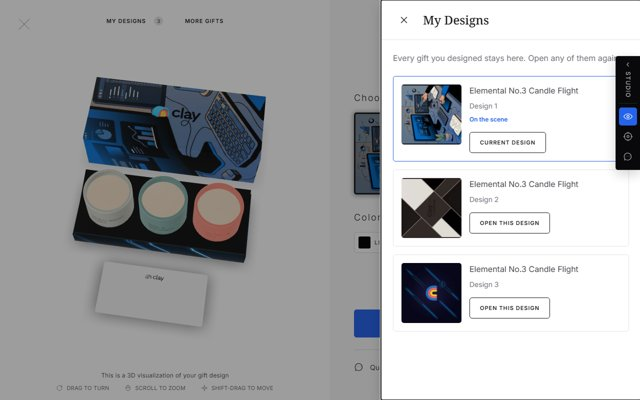
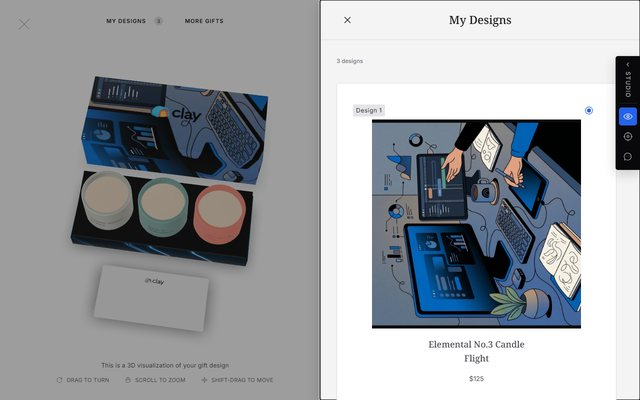
feat(lp227): iteration 7 of both sandboxes, floating plates and one chassis
Ton's seven points on the deployed sandboxes (V1.7 and V2.7, still the same two prototypes):
- the 3D line and the gesture row sit in one floating white plate at the foot of the model, as on Share Design; My Designs and More gifts float the same way on top;
- the generation animation stays as it was;
- Brand DNA is a level down: a back arrow and YOUR BRAND DNA at the top of the panel, BACK TO GIFT DESIGN is gone;
- My Designs is the Favorites drawer of the category page one to one, with a Radio in the heart's place and Design N in the badge's;
- More gifts has the category bar with its X, one to one with the portal's Browse Catalog;
- a swap between Lid and Tray creates one new design in My Designs;
- the colour tiles, the swap and EDIT MY BRAND DNA share one system outline chassis, kept on one row at 1280; the help is one service card.
icon.js gains the swap glyph. Live is untouched.

Built with Elian (session 43).

diff --git a/live/start-227-assets/sb.js b/live/start-227-assets/sb.js
@@ -4,7 +4,7 @@
    Local generation is ASSUMED: original Clay tiles rotate, no paid/live requests. */
 (function(){
 'use strict';
-var root=document.getElementById('cz-root'), db, pendingGift=null, choice='', quiet=false, drawer, helpDrawer, helpRoute='', ready;
+var root=document.getElementById('cz-root'), db, pendingGift=null, pendingSwap=null, choice='', quiet=false, drawer, helpDrawer, helpRoute='', ready;
 var KEY='gb-start227-sandbox-designs', A='start-227-assets/img/cz-', P='../sandbox/lp227-proto/img/';
 var firstGift={id:'candle-906',name:'Elemental No.3 Candle Flight',price:'$125',scene:A+'scene-design.jpg'};
 var gifts=[
@@ -32,9 +32,9 @@ function select(id){capture();if(!db.designs.some(function(d){return d.id===id;}
 function css(href){return new Promise(function(resolve,reject){var n=document.createElement('link');n.rel='stylesheet';n.href=href;n.onload=resolve;n.onerror=reject;document.head.appendChild(n);});}
 function script(src,attrs){return new Promise(function(resolve,reject){var n=document.createElement('script');n.src=src;Object.keys(attrs||{}).forEach(function(k){n.setAttribute(k,attrs[k]);});n.onload=resolve;n.onerror=reject;document.body.appendChild(n);});}
 // Existing system drawer and catalog overlay, loaded only after a sandbox is requested.
-ready=Promise.all([css('../system/components/button.css'),css('../system/components/drawer.css'),script('../system/components/drawer.js'),css('start-227-assets/sb-scene.css'),script('start-227-assets/sb-scene.js').then(function(){return GBSandboxScene.ready;}),css('../system/components/auth.css'),script('../system/components/auth.js'),css('../system/components/booking.css'),script('../system/components/booking.js'),script('catalog-overlay.js',{'data-open':'[data-sb-catalog-door]','data-src':'../sandbox/lp227-proto/index.html?land=diy&s=more&studio=embedded'})]).then(function(){
+ready=Promise.all([css('../system/components/button.css'),css('../system/components/radio.css'),css('../system/components/tooltip.css'),window.GbTip?Promise.resolve():script('../system/components/tooltip.js'),css('../system/components/drawer.css'),script('../system/components/drawer.js'),css('start-227-assets/sb-scene.css'),script('start-227-assets/sb-scene.js').then(function(){return GBSandboxScene.ready;}),css('../system/components/auth.css'),script('../system/components/auth.js'),css('../system/components/booking.css'),script('../system/components/booking.js'),script('catalog-overlay.js',{'data-open':'[data-sb-catalog-door]','data-src':'../sandbox/lp227-proto/index.html?land=diy&s=more&studio=embedded'})]).then(function(){
  drawer=document.createElement('gb-drawer');drawer.id='sb-my-designs';document.body.appendChild(drawer);
- drawer._panel.classList.add('sb-drawer-panel');drawer._scrim.classList.add('sb-drawer-scrim');
+ drawer._panel.classList.add('sb-drawer-panel','sb-favorites-panel');drawer._scrim.classList.add('sb-drawer-scrim');
  drawer.addEventListener('gbd:close',function(){if(!quiet&&active()&&GBFlow.state.dr==='designs')GBFlow.set({dr:''});});
  helpDrawer=document.createElement('gb-drawer');helpDrawer.id='sb-get-help';document.body.appendChild(helpDrawer);helpDrawer._panel.classList.add('sb-drawer-panel','sb-help-panel');helpDrawer._scrim.classList.add('sb-drawer-scrim');helpDrawer.addEventListener('gbd:close',function(){if(!quiet&&active()&&['help','meeting'].indexOf(GBFlow.state.dr)>=0)GBFlow.set({dr:''});});
  db.designs.forEach(function(d){d.artwork=d.gift.id===firstGift.id?'../assets/models/start227/art-'+d.tile+'-lid.webp':d.gift.scene;});save();
@@ -45,22 +45,31 @@ function choiceHTML(){return '<div class="cz-scroll sb-choice"><h2>How would you
 var expert={email:'',name:'',phone:'',message:''};
 function expertField(label,key,placeholder,type){return '<div class="sb-expert-field"><label for="sb-expert-'+key+'">'+label+' <span class="sb-required">*</span></label><input type="'+(type||'text')+'" id="sb-expert-'+key+'" data-sb-field="'+key+'" value="'+esc(expert[key])+'" placeholder="'+esc(placeholder)+'" required></div>';}
 function expertsHTML(){return '<div class="cz-scroll sb-experts"><div class="sb-expert-header"><button type="button" class="sb-text-door" data-sb-action="self">Back to your design</button></div><h2>Work with our experts to design this gift</h2><form id="sb-expert-form">'+expertField('EMAIL','email','me@mycompany.com','email')+expertField('YOUR NAME','name','Your Name')+'<div class="sb-expert-field"><label for="sb-expert-phone">PHONE <span class="sb-required">*</span></label><div class="sb-phone"><button type="button" aria-label="Country code, United States" class="sb-country"><svg width="20" height="13" viewBox="0 0 20 13" aria-hidden="true"><rect width="20" height="13" fill="white"/><path d="M0 1h20M0 3h20M0 5h20M0 7h20M0 9h20M0 11h20" stroke="#b22234"/><rect width="9" height="7" fill="#3c3b6e"/></svg><span>â–¾</span></button><input type="tel" id="sb-expert-phone" data-sb-field="phone" value="'+esc(expert.phone)+'" placeholder="+1 (XXX) XXX-XXXX" required></div></div><div class="sb-expert-field"><label for="sb-expert-message" class="sb-message-label">How can GildedBox help with gifting in your business?</label><textarea id="sb-expert-message" data-sb-field="message" rows="3" placeholder="Ex: I need 50 gifts for c-suite executives for a conference in two weeks">'+esc(expert.message)+'</textarea></div></form></div><footer class="cz-footer"><button type="submit" form="sb-expert-form" class="cz-button cz-primary"><span>CONTINUE</span></button></footer>';}
-function drawerHTML(){return '<p class="sb-designs-lede">Every gift you designed stays here. Open any of them again.</p><ul class="sb-designs-list">'+db.designs.map(function(d){return '<li class="sb-design-row '+(d.id===db.current?'is-current':'')+'"><img src="'+d.artwork+'" alt="'+esc(d.gift.name)+' design '+d.number+'"><div><p>'+esc(d.gift.name)+'</p><span>Design '+d.number+'</span>'+(d.id===db.current?'<strong>On the scene</strong>':'')+'<button type="button" class="gb-btn gb-btn--outline gb-btn--secondary gb-btn--medium" data-sb-design="'+d.id+'"><span class="gb-btn__label">'+(d.id===db.current?'Current design':'Open this design')+'</span></button></div></li>';}).join('')+'</ul>';}
-function cleanup(){pendingGift=null;if(window.GBSandboxScene)GBSandboxScene.unmount();closeLayers();if(window.GBEntry)GBEntry.closeSignin();}
+// Favorites Xh from live/catalog/assets/index-CosrF-zM.js, exact card/header anatomy.
+// Ren19:06: radio only selects; no extra card ring, no extra card lines.
+function drawerHTML(){return '<div class="sb-favorites-summary"><span>'+db.designs.length+' design'+(db.designs.length===1?'':'s')+'</span></div><div class="sb-favorites-list" role="radiogroup" aria-label="Design for checkout">'+db.designs.map(function(d){return '<article class="sb-favorite-card"><div class="sb-favorite-tags"><span>Design '+d.number+'</span><label class="gb-radio"><input class="gb-radio__input" type="radio" name="sb-current-design" data-sb-radio="'+d.id+'" aria-label="Select '+esc(d.gift.name)+' design '+d.number+'" '+(d.id===db.current?'checked':'')+'></label></div><button type="button" class="sb-favorite-image" data-sb-design="'+d.id+'"><img src="'+d.artwork+'" alt="'+esc(d.gift.name)+' design '+d.number+'"></button><button class="sb-favorite-title" type="button" data-sb-design="'+d.id+'">'+esc(d.gift.name)+'</button><span class="sb-favorite-price">'+esc(d.gift.price)+'</span></article>';}).join('')+'</div>';}
+function beginSwap(){if(pendingSwap)return;if(window.GbTip)GbTip.hide();capture();pendingSwap=JSON.parse(JSON.stringify(current()));pendingGift=null;GBFlow.go({cz:'reading',dr:''});}
+function finishSwap(){if(!pendingSwap)return;var source=pendingSwap,d=JSON.parse(JSON.stringify(source));d.id='design-'+(++db.counter);d.number=db.counter;d.sourceDesignId=source.id;d.fields.lid=source.fields.tray;d.fields.tray=source.fields.lid;d.fields.lidChanged=d.fields.trayChanged=true;db.designs.push(d);db.current=d.id;pendingSwap=null;save();applyCurrent();}
+function cleanup(){pendingGift=null;pendingSwap=null;if(window.GbTip)GbTip.hide();if(window.GBSandboxScene)GBSandboxScene.unmount();closeLayers();if(window.GBEntry)GBEntry.closeSignin();}
 function closeLayers(){helpRoute='';if(helpDrawer&&helpDrawer._open){quiet=true;helpDrawer.close();quiet=false;}if(drawer&&drawer._open){quiet=true;drawer.close();quiet=false;}if(window.GbCatalogOverlay)GbCatalogOverlay.close();}
 // Concierge door anatomy reused by name; configurable local three-door host, not the full hub.
 function helpHTML(){return '<div class="gbhc-doors">'+[['chat','chat','Live chat','Talk to our team.'],['meeting','calendar','Book a meeting','Choose a time that works for you.'],['experts','wand','Have our designers design it','Work with our experts on this gift.']].map(function(a){return '<button type="button" class="gbhc-door" data-sb-help="'+a[0]+'"><span class="gbhc-door__disc"><span data-gb-icon="'+a[1]+'" data-gb-icon-size="22"></span></span><span class="gbhc-door__copy"><span class="gbhc-door__title">'+a[2]+'</span><span class="gbhc-door__sub">'+a[3]+'</span></span><span class="gbhc-door__go" data-gb-icon="chevron-right" data-gb-icon-size="20"></span></button>';}).join('')+'</div>';}
 function helpLayer(state){if(['help','meeting'].indexOf(state.dr)<0){if(helpDrawer&&helpDrawer._open){quiet=true;helpDrawer.close();quiet=false;}helpRoute='';return;}if(helpRoute===state.dr&&helpDrawer._open)return;helpRoute=state.dr;helpDrawer.open({title:state.dr==='help'?'Get help':'Book a meeting',html:state.dr==='help'?helpHTML():'<div class="sb-booking-host"></div>'});helpDrawer.setBack(state.dr==='meeting'?function(){GBFlow.go({dr:'help'});}:null,'Get help');if(state.dr==='meeting'){var booking=document.createElement('gb-booking-flow');booking.setAttribute('layout','embedded');booking.setAttribute('exit-label','Back to the options');booking.setAttribute('site-href','get-help.html');booking.addEventListener('gbb:cta',function(e){var foot=helpDrawer._panel.querySelector('.gbd-foot');foot.replaceChildren();if(e.detail.node)foot.appendChild(e.detail.node);});booking.addEventListener('gbb:exit',function(e){e.preventDefault();GBFlow.go({dr:'help'});});helpDrawer._panel.querySelector('.sb-booking-host').appendChild(booking);}}
 document.addEventListener('click',function(e){if(!active())return;var b=e.target.closest('[data-sb-help]');if(!b)return;var action=b.dataset.sbHelp;if(action==='meeting')GBFlow.go({dr:'meeting'});if(action==='experts')GBFlow.go({cz:'experts',dr:''});});
+// Portal's embedded category-nav header is80px with a44px/22px close carrier.
+// Kept outside the mini-catalog iframe so no catalog bundle/shared overlay is edited.
+function stripMiniCatalog(){var frame=document.querySelector('.gbppd-cat__frame');try{var doc=frame&&frame.contentDocument;if(!doc||doc.getElementById('sb-mini-catalog-chrome'))return;var st=doc.createElement('style');st.id='sb-mini-catalog-chrome';st.textContent='.lpm-head{display:none!important}.lpm{padding-top:32px!important}';doc.head.appendChild(st);}catch(e){}}
+function catalogHeader(){stripMiniCatalog();var panel=document.querySelector('.gbppd-cat__panel');if(!panel||panel.querySelector('.sb-catalog-head'))return;panel.insertAdjacentHTML('afterbegin','<header class="sb-catalog-head"><button type="button" class="gb-btn gb-btn--icon gb-btn--ghost gb-btn--secondary" data-sb-catalog-close aria-label="Close gift catalog"><span data-gb-icon="close" data-gb-icon-size="22"></span></button><span>6 more gifts for your brand</span></header>');}
 function layer(state){helpLayer(state);
  if(state.dr==='signin'&&state.cz==='card'){openGate();}else GBEntry.closeSignin();
  if(state.dr==='designs'){drawer.open({title:'My Designs',html:drawerHTML()});}else if(drawer&&drawer._open){quiet=true;drawer.close();quiet=false;}
- if(state.dr==='more'){GbCatalogOverlay.open();var frame=document.querySelector('.gbppd-cat__frame');document.querySelector('.gbppd-cat__panel').setAttribute('aria-label','6 more gifts for your brand');if(frame&&frame.contentWindow)frame.contentWindow.postMessage({type:'lp227-current',g:current().gift.id},location.origin);}else if(document.querySelector('.gbppd-cat.open'))GbCatalogOverlay.close();
+ if(state.dr==='more'){GbCatalogOverlay.open();catalogHeader();var frame=document.querySelector('.gbppd-cat__frame');document.querySelector('.gbppd-cat__panel').setAttribute('aria-label','6 more gifts for your brand');if(frame&&frame.contentWindow)frame.contentWindow.postMessage({type:'lp227-current',g:current().gift.id},location.origin);}else if(document.querySelector('.gbppd-cat.open'))GbCatalogOverlay.close();
 }
 function enhance(root,state){
  if(!active()||state.s!=='cz'){closeLayers();return;}
+ if(window.GbTip)GbTip.hide(); // Detached color carriers must not leave an active or pending tooltip.
  ensure();applyCurrent();root.classList.add('sb-customizer');document.body.dataset.sbPlacement='scene';
- var body=root.querySelector('.cz-panel-body'),step=state.cz,d=current();
+ var body=root.querySelector('.cz-panel-body'),step=state.cz,d=current();if(step!=='reading')pendingSwap=null;
  if(step==='choice')body.innerHTML=choiceHTML();
  else if(step==='experts')body.innerHTML=expertsHTML();
  else if(step==='experts-done')body.innerHTML='<div class="cz-scroll sb-experts-done"><p>Thank you. A GildedBox designer will reach out to you shortly.</p>'+action('Back to your design','self','cz-secondary')+'</div>';
@@ -73,10 +82,10 @@ function enhance(root,state){
   var next=footer.querySelector('[data-action="next"]');if(step==='card')next.querySelector('span').textContent='ADD TO CART';
   var footCopy=step==='design'?'Next: <strong>Box</strong>, place your logo and name the box.':step==='box'?'Next: <strong>Card</strong>, your logo and the card text.':esc(d.gift.name)+' · Design '+d.number+' · '+esc(d.gift.price);
   footer.insertAdjacentHTML('afterbegin','<p class="sb-next-copy">'+footCopy+'</p>');
-  footer.insertAdjacentHTML('beforeend','<div class="sb-service"><span data-gb-icon="chat" data-gb-icon-size="20"></span><span class="sb-help-desktop">Questions, or want our designers to do it?</span><span class="sb-help-mobile">Need help?</span><button class="gb-btn gb-btn--ghost gb-btn--secondary gb-btn--small" type="button" data-sb-action="help"><span class="gb-btn__label">Get help</span></button></div>');
+  footer.insertAdjacentHTML('beforeend','<button type="button" class="sb-service-card" data-sb-action="help"><span data-gb-icon="chat" data-gb-icon-size="20"></span><span class="sb-help-desktop">Questions, or want our designers to do it?</span><span class="sb-help-mobile">Need help?</span><span class="sb-service-action">Get help<span data-gb-icon="chevron-right" data-gb-icon-size="16"></span></span></button>');
   if(step==='design'){
    root.querySelector('.cz-swatches').remove();
-   root.querySelector('.cz-choose').insertAdjacentHTML('afterend','<section class="sb-colors"><h2>Colors</h2><div class="sb-color-row">'+['lid','tray'].map(function(k){return '<label class="sb-color-tile"><input type="color" aria-label="'+k+' color" data-field="'+k+'" value="'+d.fields[k]+'"><span class="sb-swatch" style="background:'+d.fields[k]+'"></span><span>'+k.toUpperCase()+'</span><span class="sb-color-hex">'+d.fields[k].toUpperCase()+'</span></label>';}).join('')+'<button type="button" class="cz-button cz-secondary cz-small sb-dna-door" data-sb-action="dna"><i class="cz-icon" aria-hidden="true">&#60685;</i><span>EDIT MY BRAND DNA</span></button></div></section>');
+   root.querySelector('.cz-choose').insertAdjacentHTML('afterend','<section class="sb-colors"><h2>Colors</h2><div class="sb-color-row"><div class="sb-color-values">'+['lid','tray'].map(function(k,i){return (i?'<button type="button" class="gb-btn gb-btn--icon gb-btn--outline gb-btn--secondary gb-btn--small sb-swap" data-sb-action="swap" aria-label="Swap lid and tray colors" data-gb-tip="Swap colors. This creates a new design."><span data-gb-icon="swap" data-gb-icon-size="18"></span></button>':'')+'<label class="gb-btn gb-btn--outline gb-btn--secondary gb-btn--medium sb-color-tile" data-gb-tip="'+d.fields[k].toUpperCase()+'"><input type="color" aria-label="'+k+' color" data-field="'+k+'" value="'+d.fields[k]+'"><span class="sb-swatch" style="background:'+d.fields[k]+'"></span><span class="gb-btn__label">'+k.toUpperCase()+'</span><span class="sb-color-hex">'+d.fields[k].toUpperCase()+'</span></label>';}).join('')+'</div><button type="button" class="gb-btn gb-btn--outline gb-btn--secondary gb-btn--medium sb-dna-door" data-sb-action="dna"><i class="cz-icon" aria-hidden="true">&#60685;</i><span class="gb-btn__label">EDIT MY BRAND DNA</span></button></div></section>');
    root.querySelectorAll('[data-design] img').forEach(function(img){img.src=d.gift.id===firstGift.id?'../assets/models/start227/art-'+img.closest('[data-design]').dataset.design+'-lid.webp':d.gift.scene;img.alt='Public mock artwork '+img.closest('[data-design]').dataset.design;});
   }
   root.querySelectorAll('[data-design]').forEach(function(n){n.hidden=!db.designs.some(function(a){return a.tile===Number(n.dataset.design)&&a.gift.id===d.gift.id&&a.brandUrl===d.brandUrl&&(!d.batch||a.batch===d.batch);});n.classList.toggle('is-selected',Number(n.dataset.design)===d.tile);n.setAttribute('aria-pressed',Number(n.dataset.design)===d.tile);});
@@ -87,7 +96,7 @@ function enhance(root,state){
   sceneHost.insertAdjacentHTML('beforeend','<div class="sb-visualization-plate"><p class="sb-visualization-copy">This is a 3D visualization of your gift design</p><p class="gbds-hint"><span class="gbds-hint__bit"><span data-gb-icon="rotate" data-gb-icon-size="12"></span>Drag to turn</span><span class="gbds-hint__bit"><span data-gb-icon="mouse" data-gb-icon-size="12"></span>Scroll to zoom</span><span class="gbds-hint__bit"><span data-gb-icon="move" data-gb-icon-size="12"></span>Shift-drag to move</span></p></div>');
   if(step!=='reading')sceneHost.insertAdjacentHTML('beforeend','<div class="sb-scene-doors"><button type="button" class="gb-btn gb-btn--ghost gb-btn--secondary gb-btn--small" data-sb-action="designs"><span class="gb-btn__label">My Designs</span><span class="sb-count">'+db.designs.length+'</span></button><button type="button" class="gb-btn gb-btn--ghost gb-btn--secondary gb-btn--small" data-sb-action="more"><span class="gb-btn__label">More gifts</span></button></div>');
  }
- if(state.dr==='dna'){root.querySelector('.cz-dna-footer>p').textContent='Your current designs will stay in My Designs.';}
+ if(state.dr==='dna'){root.querySelector('.cz-dna-footer>p').textContent='Your current designs will stay in My Designs.';root.querySelector('[data-action="back-dna"]').remove();root.querySelector('.cz-dna-content>h2').remove();root.querySelector('.cz-dna-spacer').remove();root.querySelector('.cz-dna').insertAdjacentHTML('afterbegin','<header class="sb-dna-head"><button type="button" class="gb-btn gb-btn--icon gb-btn--ghost gb-btn--secondary gb-btn--medium" data-sb-action="back-dna" aria-label="Back to gift design"><span data-gb-icon="arrow-right" data-gb-icon-size="20" style="transform:rotate(180deg)"></span></button><h2>YOUR BRAND DNA</h2></header>');}
  if(state.dr==='dna'){var yes=root.querySelector('.cz-modal [data-action="dismiss"]:last-child');if(yes)yes.setAttribute('data-sb-action','regenerate');}
  requestAnimationFrame(function(){var dots=root.querySelector('.cz-stepper'),labels=root.querySelector('.sb-step-labels');if(dots&&labels)labels.style.width=dots.offsetWidth+'px';});
  layer(state);
@@ -97,13 +106,13 @@ function checkout(){capture();GBFlow.go({dr:'signin'});}
 function openGate(){var s=snapshot();function done(){try{sessionStorage.setItem('gb-start227-checkout',JSON.stringify(s));}catch(e){}GBEntry.closeSignin();location.href='checkout.html?design='+encodeURIComponent(s.designId);}
  GBEntry.openSignin({desc:'Sign in to save this design to your account and continue to checkout.',onDone:done,onClose:function(){GBEntry.closeSignin();if(GBFlow.state.dr==='signin')GBFlow.set({dr:''});}});
 }
-root.addEventListener('input',function(e){if(!active())return;if(e.target.dataset.sbField)expert[e.target.dataset.sbField]=e.target.value;else {var hex=e.target.closest('.sb-color-tile');if(hex){hex.querySelector('.sb-color-hex').textContent=e.target.value.toUpperCase();hex.querySelector('.sb-swatch').style.background=e.target.value;var k=e.target.dataset.field;GBCZ.model[k+'Changed']=true;}queueMicrotask(capture);}});
+root.addEventListener('input',function(e){if(!active())return;if(e.target.dataset.sbField)expert[e.target.dataset.sbField]=e.target.value;else {var hex=e.target.closest('.sb-color-tile');if(hex){if(window.GbTip)GbTip.hide();hex.dataset.gbTip=e.target.value.toUpperCase();hex.querySelector('.sb-color-hex').textContent=e.target.value.toUpperCase();hex.querySelector('.sb-swatch').style.background=e.target.value;var k=e.target.dataset.field;GBCZ.model[k+'Changed']=true;}queueMicrotask(capture);}});
 root.addEventListener('change',function(e){if(!active()||!e.target.dataset.sbChoice)return;choice=e.target.dataset.sbChoice;root.querySelectorAll('.sb-choice .lep-card').forEach(function(n){n.classList.toggle('is-on',n.contains(e.target));});root.querySelector('[data-sb-action="choice"]').disabled=false;});
 root.addEventListener('submit',function(e){if(active()&&e.target.id==='sb-expert-form'){e.preventDefault();GBFlow.go({cz:'experts-done',dr:''});}});
 root.addEventListener('click',function(e){
  if(!active())return;var b=e.target.closest('button');if(!b)return;
  var a=b.dataset.sbAction;
- if(b.dataset.design){e.stopImmediatePropagation();var tile=Number(b.dataset.design),d=current(),match=db.designs.slice().reverse().find(function(n){return n.gift.id===d.gift.id&&n.brandUrl===d.brandUrl&&n.tile===tile&&(!d.batch||n.batch===d.batch);});if(match)select(match.id);return;}
+ if(b.dataset.design){e.stopImmediatePropagation();var tile=Number(b.dataset.design),d=current();if(tile===d.tile)return;var match=db.designs.slice().reverse().find(function(n){return n.gift.id===d.gift.id&&n.brandUrl===d.brandUrl&&n.tile===tile&&(!d.batch||n.batch===d.batch);});if(match)select(match.id);return;}
  if(b.dataset.action==='next'&&GBFlow.state.cz==='card'){e.stopImmediatePropagation();checkout();return;}
  if(b.dataset.action==='close'){e.stopImmediatePropagation();GBCZ.dismissModal();GBFlow.go({s:'landing',dr:''});return;}
  if(b.dataset.action==='dismiss'&&b.textContent.trim()==='YES, UPDATE'){e.stopImmediatePropagation();GBCZ.dismissModal();capture();addSet(current().gift,3,current().brandUrl);GBFlow.go({cz:'design',dr:''});return;}
@@ -115,17 +124,20 @@ root.addEventListener('click',function(e){
  if(a==='dna')GBFlow.go({dr:'dna'});
  if(a==='more')GBFlow.go({dr:'more'});
  if(a==='help')GBFlow.go({dr:'help'});
+ if(a==='back-dna')GBFlow.go({dr:''});
+ if(a==='swap')beginSwap();
  if(a==='regenerate'){GBCZ.dismissModal();capture();addSet(current().gift,3,current().brandUrl);GBFlow.go({cz:'design',dr:''});}
 },true);
-document.addEventListener('click',function(e){if(!active())return;var b=e.target.closest('[data-sb-design]');if(b){quiet=true;drawer.close();quiet=false;select(b.dataset.sbDesign);}if(e.target.closest('[data-gbppd-cat-close]')&&GBFlow.state.dr==='more')GBFlow.set({dr:''});});
+document.addEventListener('change',function(e){if(active()&&e.target.dataset.sbRadio)select(e.target.dataset.sbRadio);});
+document.addEventListener('click',function(e){if(!active())return;if(e.target.closest('[data-sb-catalog-close]'))GBFlow.go({dr:''});var b=e.target.closest('[data-sb-design]');if(b){quiet=true;drawer.close();quiet=false;select(b.dataset.sbDesign);}if(e.target.closest('[data-gbppd-cat-close]')&&GBFlow.state.dr==='more')GBFlow.set({dr:''});});
 document.addEventListener('keydown',function(e){if(active()&&e.key==='Escape'&&GBFlow.state.dr==='more')GBFlow.set({dr:''});});
 window.addEventListener('message',function(e){if(!active()||e.origin!==location.origin||!e.data)return;var frame=document.querySelector('.gbppd-cat__frame');if(!frame||e.source!==frame.contentWindow)return;
- if(e.data.type==='lp227-ready'){frame.contentWindow.postMessage({type:'lp227-current',g:current().gift.id},location.origin);}
+ if(e.data.type==='lp227-ready'){stripMiniCatalog();frame.contentWindow.postMessage({type:'lp227-current',g:current().gift.id},location.origin);}
  if(e.data.type==='gb-close-catalog'&&GBFlow.state.dr==='more')GBFlow.set({dr:''});
  if(e.data.type==='lp227-pick'){var g=gifts.find(function(n){return n.id===e.data.id;});if(!g)return;capture();pendingGift=g;GbCatalogOverlay.close();GBFlow.set({cz:'reading',dr:''});}
 });
-window.GBSandbox={loaded:false,ready:ready,prepare:function(){ensure();applyCurrent();},enhance:enhance,capture:capture,checkout:checkout,current:current,designs:function(){return db.designs;},shortReading:function(){return !!pendingGift;},websitePlate:function(){var w=GBFlow.state.cz==='reading'&&!pendingGift?url():current()?current().brandUrl:url();return domain(w).toUpperCase();},afterReading:function(){
- var short=!!pendingGift;if(short){addSet(pendingGift,1,current().brandUrl);pendingGift=null;}
+window.GBSandbox={loaded:false,ready:ready,prepare:function(){ensure();applyCurrent();},enhance:enhance,capture:capture,checkout:checkout,current:current,designs:function(){return db.designs;},shortReading:function(){return !!(pendingGift||pendingSwap);},websitePlate:function(){var w=GBFlow.state.cz==='reading'&&!pendingGift?url():current()?current().brandUrl:url();return domain(w).toUpperCase();},afterReading:function(){
+ var short=!!(pendingGift||pendingSwap);if(pendingSwap)finishSwap();else if(pendingGift){addSet(pendingGift,1,current().brandUrl);pendingGift=null;}
  else if(!db.designs.length||current().brandUrl!==url())addSet(firstGift,3);
  applyCurrent();if(GBFlow.state.v==='3'&&!short)choice='';return GBFlow.state.v==='3'&&!short?'choice':'design';
 },cleanup:cleanup,snapshot:snapshot,setPlacement:function(p){document.body.dataset.sbPlacement=p;}};

diff --git a/live/start-227-assets/sb.css b/live/start-227-assets/sb.css
@@ -133,3 +133,76 @@ body[data-sb-placement='scene'] .sb-scene-doors{top:24px;left:0;right:0;justify-
 .sb-customizer .cz-title-row .gb-icon,.sb-customizer .cz-title-row svg{width:18px;height:18px;--gbic-size:18px}
 .sb-customizer .cz-title-row button:not(:disabled) svg{stroke:#18181b;opacity:1;stroke-width:1.5}
 .sb-customizer .sb-scene-doors{pointer-events:none}.sb-customizer .sb-scene-doors button{pointer-events:auto}
+/* Sandbox V1.7/V2.7, Ton30Sep19:00 delta, query IDs unchanged. */
+.sb-customizer .sb-visualization-plate{padding:16px;background:#fff;border-radius:5px;bottom:16px}
+#cz-root .sb-visualization-copy{margin-bottom:12px}
+body[data-sb-placement='scene'] .sb-scene-doors{top:16px;left:0;right:0;margin-inline:auto;width:fit-content;max-width:calc(100% - 96px);padding:8px;background:#fff;border-radius:5px;gap:12px}
+@media(hover:none),(pointer:coarse){#cz-root .sb-visualization-copy{margin-bottom:0}}
+.sb-color-values{display:flex;align-items:center;gap:12px;flex-shrink:0}
+#cz-root .sb-color-tile,#cz-root .sb-dna-door{min-height:var(--gbb-h);height:var(--gbb-h);border:var(--gbb-line-w) var(--gbb-line-style) var(--gbb-line);border-radius:var(--gb-btn-radius);background:#fff;color:var(--gbb-ink);font-size:var(--gbb-font-size);font-weight:var(--gbb-font-weight);letter-spacing:var(--gbb-tracking)}
+#cz-root .sb-color-tile{padding:var(--gbb-pad-y) 8px;gap:8px;box-shadow:none}
+#cz-root .sb-dna-door{padding:var(--gbb-pad-y) var(--gbb-pad-x);margin-left:auto;gap:8px;flex-shrink:0;white-space:nowrap}
+#cz-root .sb-color-tile:hover,#cz-root .sb-dna-door:hover{background:var(--gbb-bg-hover);color:var(--gbb-ink-hover);border-color:var(--gbb-line-hover)}
+.sb-swap{flex-shrink:0;background:#fff;--gbb-icon:18px}
+.sb-customizer .cz-footer:has(.sb-service-card){gap:0;padding-top:16px}
+#cz-root .sb-service-card{display:flex;align-items:center;gap:12px;min-height:48px;width:100%;padding:12px 16px;border:1px solid #e4e4e7;border-radius:5px;background:transparent;margin-top:24px;text-align:left;cursor:pointer;font-size:14px;line-height:21px;font-weight:400;letter-spacing:0;color:#3f3f46;transition:background-color .2s}
+#cz-root .sb-service-card:hover{background:#f4f4f5}
+.sb-service-card>span[data-gb-icon]{width:20px;height:20px;flex:0 0 20px}
+.sb-service-card .sb-help-desktop{flex:1;min-width:0}
+.sb-service-action{display:flex;align-items:center;gap:8px;white-space:nowrap;font-size:12px;font-weight:500}
+.sb-service-action [data-gb-icon]{width:16px;height:16px;flex-shrink:0}
+.sb-dna-head{display:flex;align-items:center;gap:16px;min-height:80px;padding:16px 48px;flex-shrink:0;border-bottom:1px solid #e4e4e7;background:inherit}
+#cz-root .sb-dna-head h2{margin:0;flex:1}
+.sb-dna-head .gb-btn{color:#18181b}
+.sb-customizer .cz-dna-content{padding-top:0}
+.sb-customizer .cz-dna-footer>div{display:block}
+/* Favorites source: Xh and index-B68sqkur.css, copied dimensions, typography and card anatomy.
+   Ren19:06 explicitly removed the initially requested selected card ring. */
+.sb-favorites-panel{width:min(640px,calc(100vw - 32px))!important;border-radius:0!important;background:#f4f4f5!important;border:0!important;border-left:1px solid #dedee2!important;font-family:Inter,Arial,sans-serif;font-size:13px;line-height:1.55}
+.sb-favorites-panel .gbd-head{height:80px;min-height:80px;flex:0 0 80px;padding:0 32px;align-items:center;gap:0;border-bottom:1px solid #dedee2}
+.sb-favorites-panel .gbd-head::after{content:'';flex:0 0 44px}
+.sb-favorites-panel .gbd-head .gbd-slot{width:44px;height:44px;min-height:44px}
+.sb-favorites-panel .gbd-title{font-family:'Noto Serif',Georgia,serif;font-size:22.75px;font-weight:500;line-height:35.2625px;text-align:center;margin:0 auto;padding:0}
+.sb-favorites-panel .gbd-body{padding:0 32px 32px;font-size:13px;line-height:1.55;scrollbar-gutter:stable;letter-spacing:0}
+.sb-favorites-panel .gbd-foot{display:none}
+.sb-favorites-summary{position:sticky;top:0;z-index:2;min-height:86px;display:flex;align-items:center;justify-content:space-between;gap:32px;padding:20px 0;background:#f4f4f5;flex-shrink:0}
+.sb-favorites-summary>span{font-size:11.375px;font-weight:500;color:#727277}
+.sb-favorites-list{display:flex;flex-direction:column;gap:24px}
+.sb-favorite-card{position:relative;flex:0 0 auto;min-height:650px;display:flex;flex-direction:column;align-items:center;justify-content:flex-end;gap:16px;padding:32px 32px 48px;overflow:hidden;background:#fff;border:1px solid #dedee2;border-radius:5px;text-align:center}
+.sb-favorite-tags{position:absolute;top:32px;right:32px;left:32px;display:flex;align-items:center;justify-content:space-between}
+.sb-favorite-tags>span{padding:3px 6px;background:#e4e4e7;border-radius:3px;color:#27272a;font-size:12px;font-weight:400;letter-spacing:.5px;line-height:18px}
+.sb-favorite-tags .gb-radio{width:44px;height:44px;justify-content:center}
+.sb-favorite-image,.sb-favorite-title{padding:0;border:0;background:transparent;color:inherit;cursor:pointer}
+.sb-favorite-image{width:100%;min-height:420px;display:grid;place-items:center}
+.sb-favorite-image img{width:100%;max-height:420px;object-fit:contain}
+.sb-favorite-title{max-width:26ch;font-family:'Noto Serif',Georgia,serif;font-size:17.55px;font-weight:500;line-height:1.55}
+.sb-favorite-price{font-size:13px;font-weight:400;line-height:1.55}
+.sb-catalog-head{height:80px;min-height:80px;flex:0 0 80px;display:flex;align-items:center;gap:16px;padding:0 24px;background:rgba(255,255,255,.96);border-bottom:1px solid #dedee2;color:#242426;font-family:Inter,Arial,sans-serif;font-size:13px;font-weight:500;line-height:20.15px;letter-spacing:.031em;text-transform:uppercase}
+.sb-catalog-head .gb-btn--icon{width:44px;height:44px;min-height:44px;flex:0 0 44px;color:#242426}
+.sb-catalog-head svg{width:22px;height:22px}
+.sb-catalog-head+iframe{min-height:0}
+body[data-v='2'] .gb-tip--float,body[data-v='3'] .gb-tip--float{z-index:1003}
+@media(max-width:1023px){.sb-color-values{gap:8px}.sb-color-row{gap:8px;flex-wrap:wrap}#cz-root .sb-dna-door{margin-left:0}.sb-customizer .cz-footer:has(.sb-service-card){padding:12px 16px 8px}#cz-root .sb-service-card{margin-top:8px;padding:8px 12px;min-height:48px}.sb-service-card .sb-help-desktop{display:none}.sb-service-card .sb-help-mobile{display:block;flex:1}.sb-service-action{font-size:12px}.sb-dna-head{padding:16px}.sb-catalog-head{padding-left:68px;padding-right:16px;gap:16px;font-size:11.5005px;line-height:17.8258px}}
+@media(max-width:640px){.sb-favorites-panel{width:100%!important;border:0!important}.sb-favorites-panel .gbd-head{padding-inline:16px}.sb-favorites-panel .gbd-title{font-size:20.1259px;line-height:31.1951px}.sb-favorites-panel .gbd-body{padding:0 16px 24px;font-size:11.5005px}.sb-favorites-summary{gap:32px}.sb-favorite-card{min-height:560px;padding-inline:20px}.sb-favorite-image{min-height:360px}.sb-favorite-title{font-size:15.5257px}.sb-favorite-price{font-size:11.5005px}}
+@media(min-width:2000px){.sb-favorites-panel .gbd-title{font-size:28px;line-height:43.4px}.sb-favorite-title{font-size:21.6px}.sb-favorite-price{font-size:16px}.sb-favorites-panel .gbd-body{font-size:16px}.sb-favorites-summary>span{font-size:14px}}
+
+/* Source signed-in Favorites variant: count only, no new authentication intent. */
+.sb-color-row{flex-wrap:wrap}
+.sb-favorites-panel .sb-favorite-title{font-family:'Noto Serif',Georgia,serif}
+
+/* Ren19:21: token gaps first, omit visual hex below1680 while retaining native picker and system tip. */
+.sb-color-values,.sb-color-row{gap:8px}
+@media(max-width:1679px){.sb-color-tile .sb-color-hex{display:none}}
+
+/* Favorites source native button padding contributes2px to its title linebox. */
+.sb-favorites-panel .sb-favorite-image,.sb-favorites-panel .sb-favorite-title{padding:1px 6px}
+
+/* Keep the source420px image area when square mock artwork reaches its maximum. */
+.sb-favorite-image img{max-height:418px}
+/* Ren19:48: sandbox DNA only. At1280/1440 a49px hex clips its53.47px text.
+   Compact token gaps/padding recover65px; preserve source14/300 and76px hex at2xl. */
+@media(min-width:1280px) and (max-width:1679px){
+ .sb-customizer .cz-dna .cz-color-pairs{gap:8px;padding:16px 12px}
+ .sb-customizer .cz-dna .cz-color-pair{gap:8px}
+ #cz-root.sb-customizer .cz-dna .cz-color-pair .cz-hex{min-width:64px}
+}

diff --git a/system/components/icon.js b/system/components/icon.js
@@ -246,6 +246,14 @@
   var GRID = 24;
 
   var SET = {
+    /* Sandbox iteration 7, Ton/Ren30Sep: opposite horizontal arrows for color swap.
+       Source assets/nucleo-full/48-arrows-opposite-direction-x-2.svg.
+       Original 48-grid coordinates halved onto the house 24 grid. */
+    'swap': {
+      body: '<path d="M21.5 16.5H3l.5 0M7.5 12L3 16.5 7.5 21M2.5 7.5H21l-.5 0M16.5 3L21 7.5 16.5 12"/>',
+      from: 'assets/nucleo-full/48-arrows-opposite-direction-x-2.svg (Nucleo): Sandbox color swap',
+      stroke: 1.5
+    },
     'arrow-right': {
       body: '<path d="M4 12h15M13 6l6 6-6 6"/>',
       from: 'auth.js, booking.js: the forward glyph of every submit',

diff --git a/live/start-227-assets/sb-scene.css b/live/start-227-assets/sb-scene.css
@@ -292,3 +292,5 @@
 .sb-real-scene>picture{display:none}
 @media(max-width:1023px){.sb-scene-stage{inset:56px 0 52px}}
 
+/* Sandbox V1.7/V2.7: plates float above the real canvas; no reserved scene lanes. */
+.sb-customizer .sb-scene-stage{inset:0;z-index:0}
